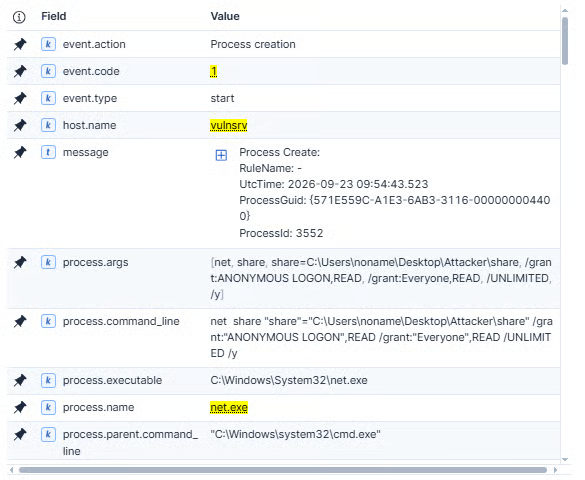
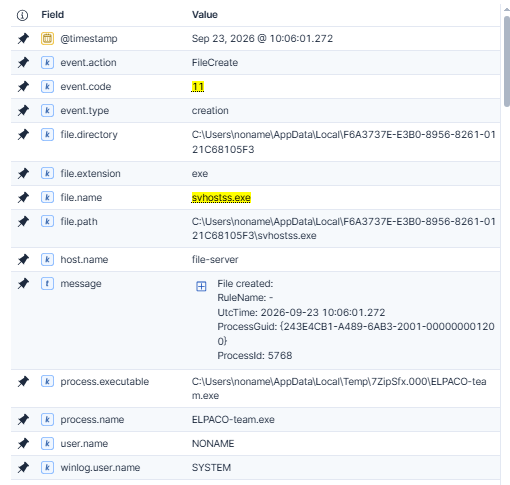
GITBOOK-79: change request with no subject merged in GitBook

diff --git a/ahmeds-organization/articles/investigating-elpaco-team-exploiting-confluence-cve-2023-22527.md b/ahmeds-organization/articles/investigating-elpaco-team-exploiting-confluence-cve-2023-22527.md
@@ -1,2 +1,64 @@
 # Investigating ELPACO-team Exploiting Confluence CVE-2023-22527
 
+## Case Summary
+
+On September 2026, a threat actor compromised a corporate network by exploiting a critical Remote Code Execution (RCE) vulnerability (**CVE-2023-22527**)  in a public-facing Atlassian Confluence server. The vulnerability, an OGNL injection flaw in the template engine, allowed the attacker to execute arbitrary commands on the server without authentication by sending crafted POST requests to the `/template/aui/text-inline.vm` endpoint.
+
+Upon gaining initial access, the threat actor deployed a **Metasploit Meterpreter** reverse shell payload named `HAHLGiDDb.exe`, establishing command and control (C2) communications back to their infrastructure. This provided the attacker with an interactive session on the compromised Confluence server, which served as the initial foothold into the network.
+
+To establish persistence and enable hands-on-keyboard access, the threat actor downloaded and silently installed **AnyDesk** remote desktop software on the compromised server. The installation was performed using the `--install` and `--start-with-win` flags, configuring AnyDesk to run as a Windows service under the `NT AUTHORITY\NETWORK SERVICE` account ensuring it would automatically start on system reboot. The attacker then set an unattended access password, allowing them to reconnect at will without user interaction.
+
+Simultaneously, the threat actor executed a batch script (`u1.bat`) to create a local administrator account named **"noname"** using `net user` and `net localgroup administrators` commands. This provided a secondary persistence mechanism: a dedicated Windows account with full administrative privileges that could be used to log in through AnyDesk with an isolated desktop session, reducing the risk of detection by legitimate administrators.
+
+The threat actor then connected to the server via AnyDesk and authenticated to Windows using the newly created **"noname"** account (Logon Type 10 — Remote Interactive), establishing a clean desktop session separate from any active administrator sessions.
+
+For **privilege escalation**, the attacker attempted to exploit **Zerologon (CVE-2020-1472)** against the domain controller to reset the computer account password. However, this attempt failed as the Domain Controller detected and blocked the non-compliant Netlogon secure channel connection (Netlogon Event ID 5836). Consequently, the adversary pivoted to **Mimikatz** to harvest credentials locally from LSASS memory on `vulnsrv` , extracting Domain Administrator NTLM hashes to facilitate Pass-the-Hash (PtH) attacks.
+
+During the **discovery** phase, the threat actor utilized **NetScan** (SoftPerfect Network Scanner) to map the internal network, identifying live hosts, open ports, and available shares across the domain. This provided the attacker with a comprehensive view of the environment, including file servers, domain controllers, and other high-value targets for lateral movement.
+
+Using the harvested domain admin credentials, the threat actor performed **lateral movement** across the network using **WMIExec** (Windows Management Instrumentation), executing commands remotely on multiple machines. On each target, **Windows Defender** was disabled remotely to prevent detection of the ransomware payload.
+
+For the **impact** phase, the threat actor deployed **ELPACO-team**, a variant of the **Mimic ransomware** family. The ransomware was delivered as a **7-Zip Self-Extracting Archive (SFX)** that, upon execution, silently extracted its components to a staging directory at `%LocalAppData%\{F6A3737E-E3B0-8956-8261-0121C68105F3}\`. The main orchestrator binary **masqueraded** as a legitimate system process by renaming itself to **`svhostss.exe`** (a deliberate typo-squat of `svchost.exe`), a defense evasion technique.
+
+A defining characteristic of this ransomware variant is its abuse of the legitimate **Everything** search utility (`Everything.exe`) by Voidtools. Rather than performing slow recursive directory traversal, the ransomware leveraged Everything's ability to query the NTFS Master File Table (MFT) and USN Journal to rapidly index all target files on the system within seconds — a technique that significantly accelerated the encryption process.
+
+Once indexing was complete, the ransomware encrypted files across the compromised systems, appending the **`.ELPACO-team`** extension to each affected file. A ransom note named **`Decryption_INFO.txt`** was dropped in every directory containing encrypted files. The note instructed victims to contact the threat actor via email (`de_tech@tuta.io`) or Telegram (`@Online7_365`) for decryption key negotiation.
+
+<figure><img src="../.gitbook/assets/image (14).png" alt=""><figcaption><p>DetectionLab Network Diagram</p></figcaption></figure>
+
+## Initial Triage and Ransomware Discovery <a href="#initial-triage-and-ransomware-discovery" id="initial-triage-and-ransomware-discovery"></a>
+
+{% hint style="info" %}
+_Please note that the ransomware binaries (`ELPACO-team.exe` and `svhostss.exe`), as well as the integrated usage of the `Everything.exe` utility for reconnaissance, are part of a custom simulation built specifically for this controlled lab environment. While precisely engineered to mimic the real-world Tactics, Techniques, and Procedures (TTPs)—such as automated Master File Table enumeration, mass file encryption, and registry persistence—these are safe, simulated artifacts created solely for educational and digital forensic research purposes rather than original in-the-wild malware._
+{% endhint %}
+
+The investigation began at the end of the attack lifecycle. Critical servers were found paralyzed, with files appended with the `.ELPACO-team` extension .Across the affected directories, the threat actor distributed a ransom note named `Decryption_INFO.txt` .
+
+On the Desktop and across multiple directories under `C:\LabData`, I confirmed files were encrypted with the `.ELPACO-team` extension ([T1486](https://attack.mitre.org/techniques/T1486/)).
+
+<figure><img src="../.gitbook/assets/image (77).png" alt=""><figcaption><p>Files encrypted with .ELPACO-team extension</p></figcaption></figure>
+
+Also, I found the ransom note called `Decryption_INFO.txt` dropped in Desktop and every directory containing encrypted files, which contained Decryption ID, Telegram User and email addresses for contacting the threat actors.
+
+<figure><img src="../.gitbook/assets/image (147).png" alt=""><figcaption><p>The ransom note containing email addresses and telegram user for the threat actors</p></figcaption></figure>
+
+My next goal is to identify the process that encrypted the files and dropped the ransom note, in order to understand how the ransomware was delivered to these hosts by tracing the ransomware activities back to their origin.
+
+Before proceeding, I verified the logging mechanisms in the environment and confirmed the presence of Sysmon.
+
+By filtering for files with the `.ELPACO-team` extension, I discovered that `svhostss.exe` was responsible for encryption, with the last file encrypted on `2026-09-23` at  `10:06:04` .
+
+`file.extension: "ELPACO-team"`&#x20;
+
+<figure><img src="../.gitbook/assets/Screenshot 2026-10-03 162743.png" alt=""><figcaption><p>svhostss.exe, the process responsible for files encryption</p></figcaption></figure>
+
+Through the analysis of the compromised hosts, I determined that the ransomware was deployed and executed on `FILE-server` and `BACKUP`.
+
+<figure><img src="../.gitbook/assets/image (148).png" alt=""><figcaption><p>.ELPACO-team extension only appearing on FILE-server, BACKUP</p></figcaption></figure>
+
+To trace `svhostss.exe` back to its origin, I filtered file creation events on `FILE-server` and sorted them in chronological order. At 10:06:01, the logs revealed that `ELPACO-team.exe` spawned `svhostss.exe`, indicating that the ransomware was likely deployed via an MSI installer.
+
+`host.hostname: "FILE-server" and event.code: "11" and "svhostss.exe"`
+
+<figure><img src="../.gitbook/assets/image (149).png" alt=""><figcaption></figcaption></figure>
+
